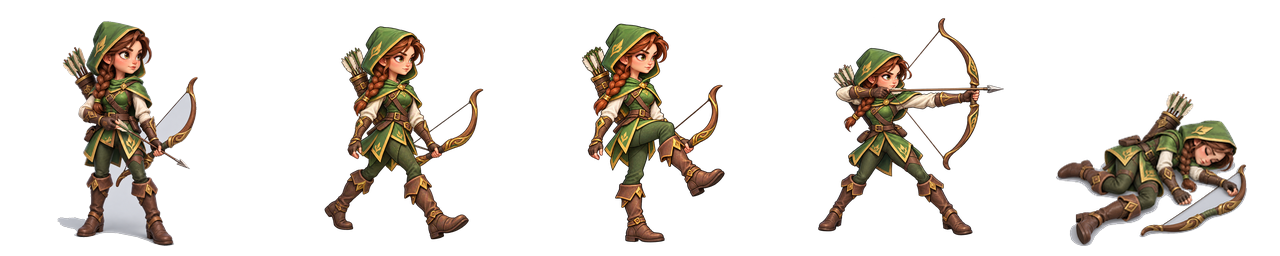
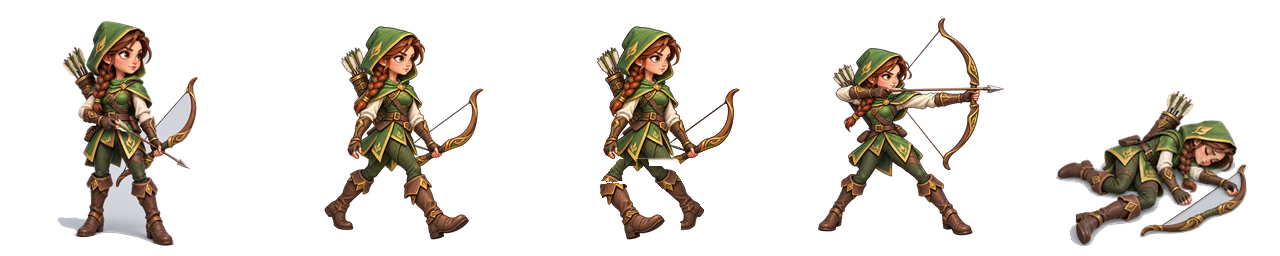
Repair archer alternating-leg walk with original sprite pixels
Preserve upper body and non-walk poses; 256 px, game-size and 6 fps review. TypeScript, 158 tests, and art checks pass.

Changed region(s): [[0.4375, 0.0938, 0.5938, 0.9688]]

diff --git a/src/art/registry.ts b/src/art/registry.ts
@@ -46,7 +46,7 @@ export interface TextureSpec {
 // The query is intentional. Painted files are stable public URLs rather than
 // Vite-hashed imports, so a version here guarantees that a deployed art pass
 // cannot be hidden behind an older service-worker entry.
-export const PAINTED_MANIFEST_URL = 'assets/painted/manifest.json?v=regional-environment-35';
+export const PAINTED_MANIFEST_URL = 'assets/painted/manifest.json?v=regional-environment-36';
 
 function specs(drawn: ReadonlySet<string> = new Set()): TextureSpec[] {
   const out: TextureSpec[] = [];

diff --git a/docs/WALK_CYCLE_QA.md b/docs/WALK_CYCLE_QA.md
@@ -2,11 +2,10 @@
 
 All 34 manifest entries whose movement animation points to two frames (`walk: [1, 2]`) were inspected at full sheet resolution. The frame mapping alone does not prove alternate legs.
 
-## Repair required: 22 grounded characters
+## Repair required: 21 grounded characters
 
 In every pair below, the same anatomical leg appears ahead in both movement cells, even when the stride or knee height changes. These sheets must not be counted as completed alternating-leg walks.
 
-- `unit.archer.frames`
 - `unit.goblin.frames`
 - `unit.goblin_bomber.frames`
 - `unit.goblin_runner.frames`
@@ -45,7 +44,7 @@ These have visibly different wing or trailing-form silhouettes across the two mo
 - `unit.black_hawk.frames`
 - `unit.succubus.frames`
 
-The militia sheet was repaired by compositing its own lower-body pixels: the near leg trails and the far leg leads in the second frame, with right-facing boots and unchanged upper body. It was reviewed at 256 px, 96 px, and 6 fps. The arbalest remains on `walk: [0]`. Several generated arbalest and militia replacement drafts repeated the leading leg and were rejected before import. The 22 defects above add to, rather than replace, the manifest entries still using idle as their walk.
+The militia and archer sheets were repaired by compositing each character's own lower-body pixels: the near leg trails and the far leg leads in the second frame, with right-facing boots and unchanged upper bodies. Both were reviewed at 256 px, 96 px, and 6 fps. The arbalest remains on `walk: [0]`. Several generated arbalest and militia replacement drafts repeated the leading leg and were rejected before import. The 21 defects above add to, rather than replace, the manifest entries still using idle as their walk.
 
 ## Acceptance gate for each new or repaired sheet
 
